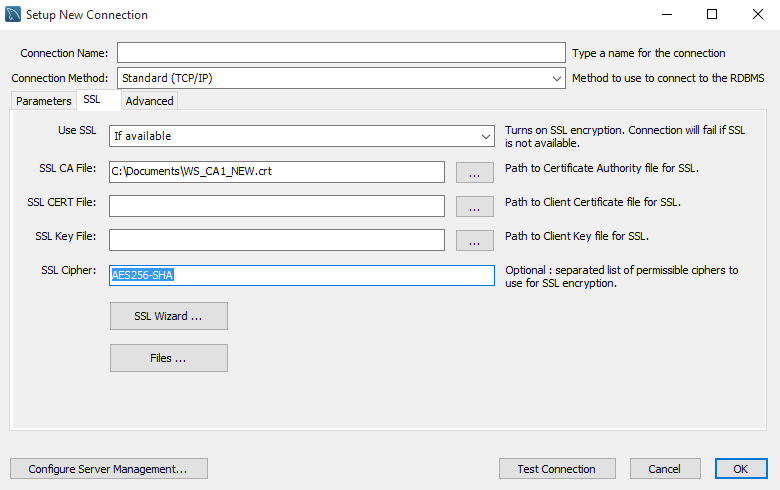
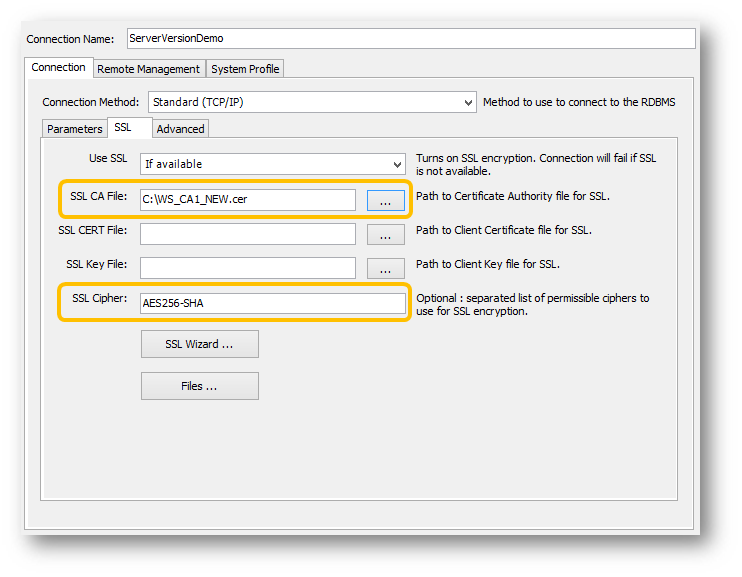
MySQL

Changed region(s): [[0.0, 0.0, 0.9919, 0.9796]]

diff --git a/articles/mysql/mysql-database-compatibilityinquiry.md b/articles/mysql/mysql-database-compatibilityinquiry.md
@@ -1,6 +1,6 @@
 <properties linkid="" urlDisplayName="" pageTitle="MySQL服务问题 - Azure 微软云" metaKeywords="Azure 云,技术文档,文档与资源,MySQL,数据库,兼容性问题,Azure MySQL, MySQL PaaS,Azure MySQL PaaS, Azure MySQL Service, Azure RDS,FAQ" description="针对用户在使用MySQL 数据库 on Azure中遇到的一些常见技术问题,提供快速解答。如果您仍存有疑问,欢迎联系技术支持。" metaCanonical="" services="MySQL" documentationCenter="Services" title="" authors="" solutions="" manager="" editor="" />
 
-<tags ms.service="mysql" ms.date="07/05/2016" wacn.date="07/05/2016" wacn.lang="cn" />
+<tags ms.service="mysql" ms.date="10/10/2016" wacn.date="10/10/2016" wacn.lang="cn" />
 #客户端兼容性问题
 > [AZURE.SELECTOR]
 - [全部问题](/documentation/articles/mysql-database-tech-faq/)
@@ -9,16 +9,22 @@
 - [安全性咨询](/documentation/articles/mysql-database-securityinquiry/)
 - [兼容性问题](/documentation/articles/mysql-database-compatibilityinquiry/)
 
-MySQL Database on Azure采用MySQL 社区版本，兼容MYSQL常见的管理工具。在实际运维当中，我们也发现对于某些客户端的某个版本存在一定的兼容性问题，归纳如下：
+MySQL Database on Azure采用MySQL社区版本，兼容MySQL常见的管理工具。在实际运维当中，我们也发现对于某些客户端的某个版本存在一定的兼容性问题，归纳如下：
 
 ### **用workbench 6.3.5连接MySQL on Azure, 出现连接问题**
 
-workbench 6.3.5默认选择SSL连接, 且会使用“TLS-DHE-RSA-WITH-AES-256-CBC-SHA”进行加密，但是，我们的代理服务器断，目前暂不支持识别，因此会造成无法利用workbench 6.3.5连接MySQL on Azure的问题。作为workaround, 请您配置SSL证书使用，步骤参见[SSL安全访问MySQL Database on Azure](/documentation/articles/mysql-database-ssl-connection/)，并且，您需要在SSL_Cipher中指明AES256-SHA，具体如下图所示。或者建议您可以选择6.3.5以前的版本，该问题将得以解决。
-![Workbench6.3.5连接方法][1]
+workbench 6.3.5默认选择SSL连接, 且会使用“TLS-DHE-RSA-WITH-AES-256-CBC-SHA”进行加密，但我们的代理服务器端目前暂不支持识别，因此会造成无法利用workbench 6.3.5连接MySQL Database on Azure的问题。作为workaround，请您配置SSL证书使用，具体步骤如下所示：
+
+1. [点击链接](https://www.wosign.com/root/WS_CA1_NEW.crt)，下载证书文件。
+2. 在workbench 6.3.5中，“SSL CA File”一栏指定该证书文件的位置，“SSL Cipher”一栏填写AES256-SHA，如下图所示。
+![Workbench6.3.5SSL连接方法][1]
+
+此外，您还可以选择6.3.5以前的版本，老版本没有这个问题。
 
 ### **用SQLyog连接MySQL on Azure, 出现连接问题**
 当user name超过16个字符时，该客户端会自动截取前16个字符，造成连接的问题。建议您采用最新版本的SQLyog客户端，或其他MySQL的管理客户端，如MySQL workbench。
 
 
+<!--Image references-->
 
 [1]: ./media/mysql-database-compatibilityinquiry/SSL.png
